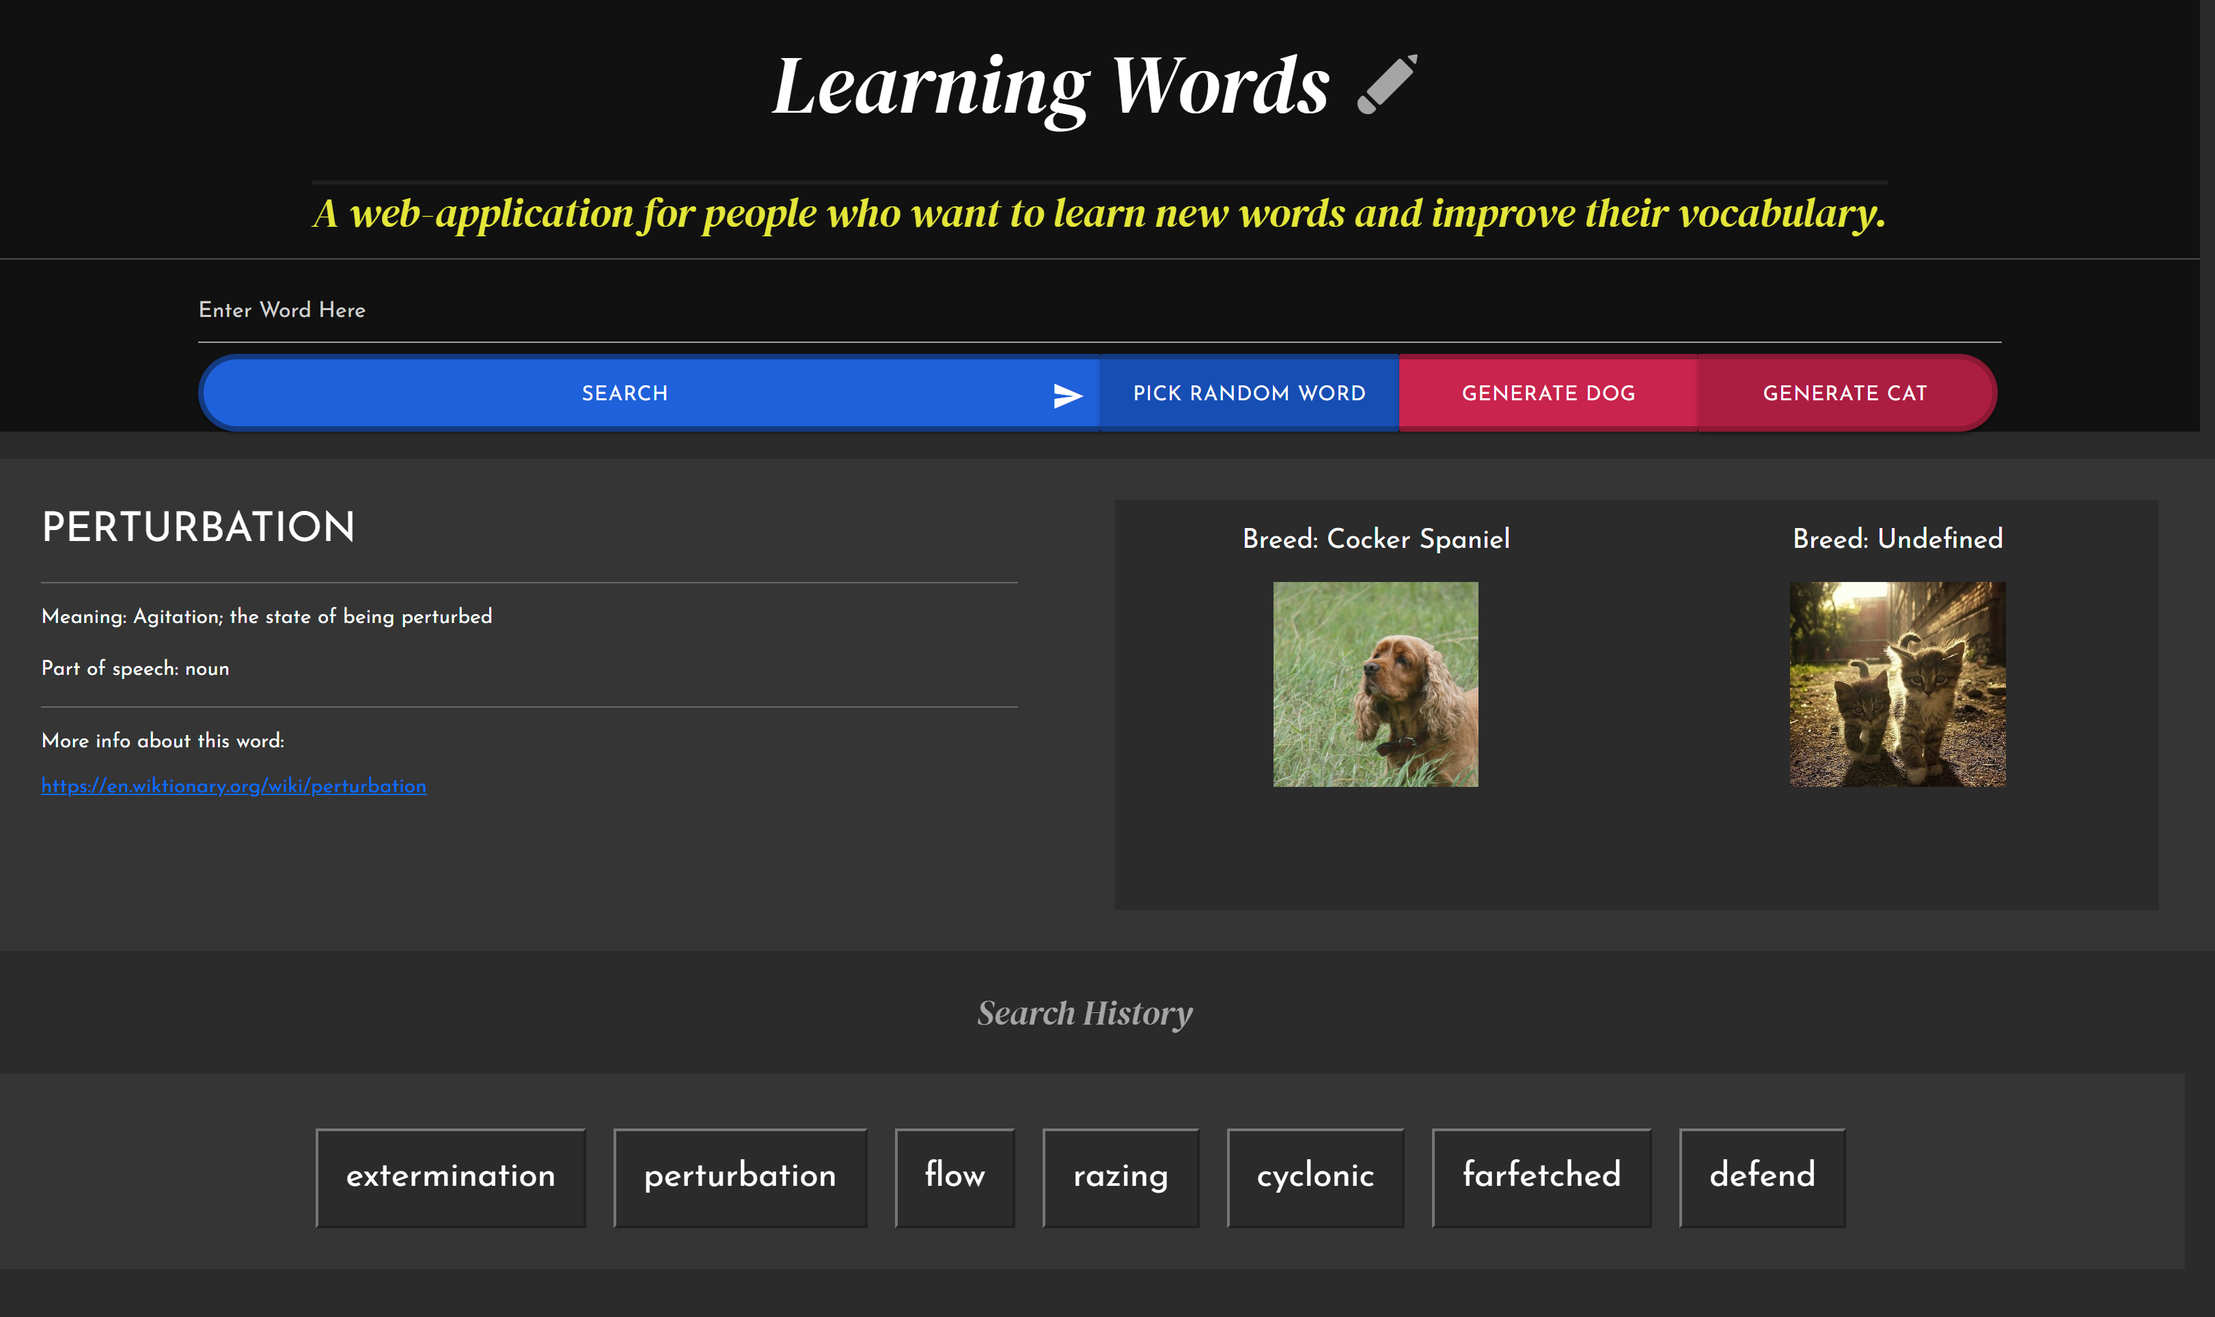
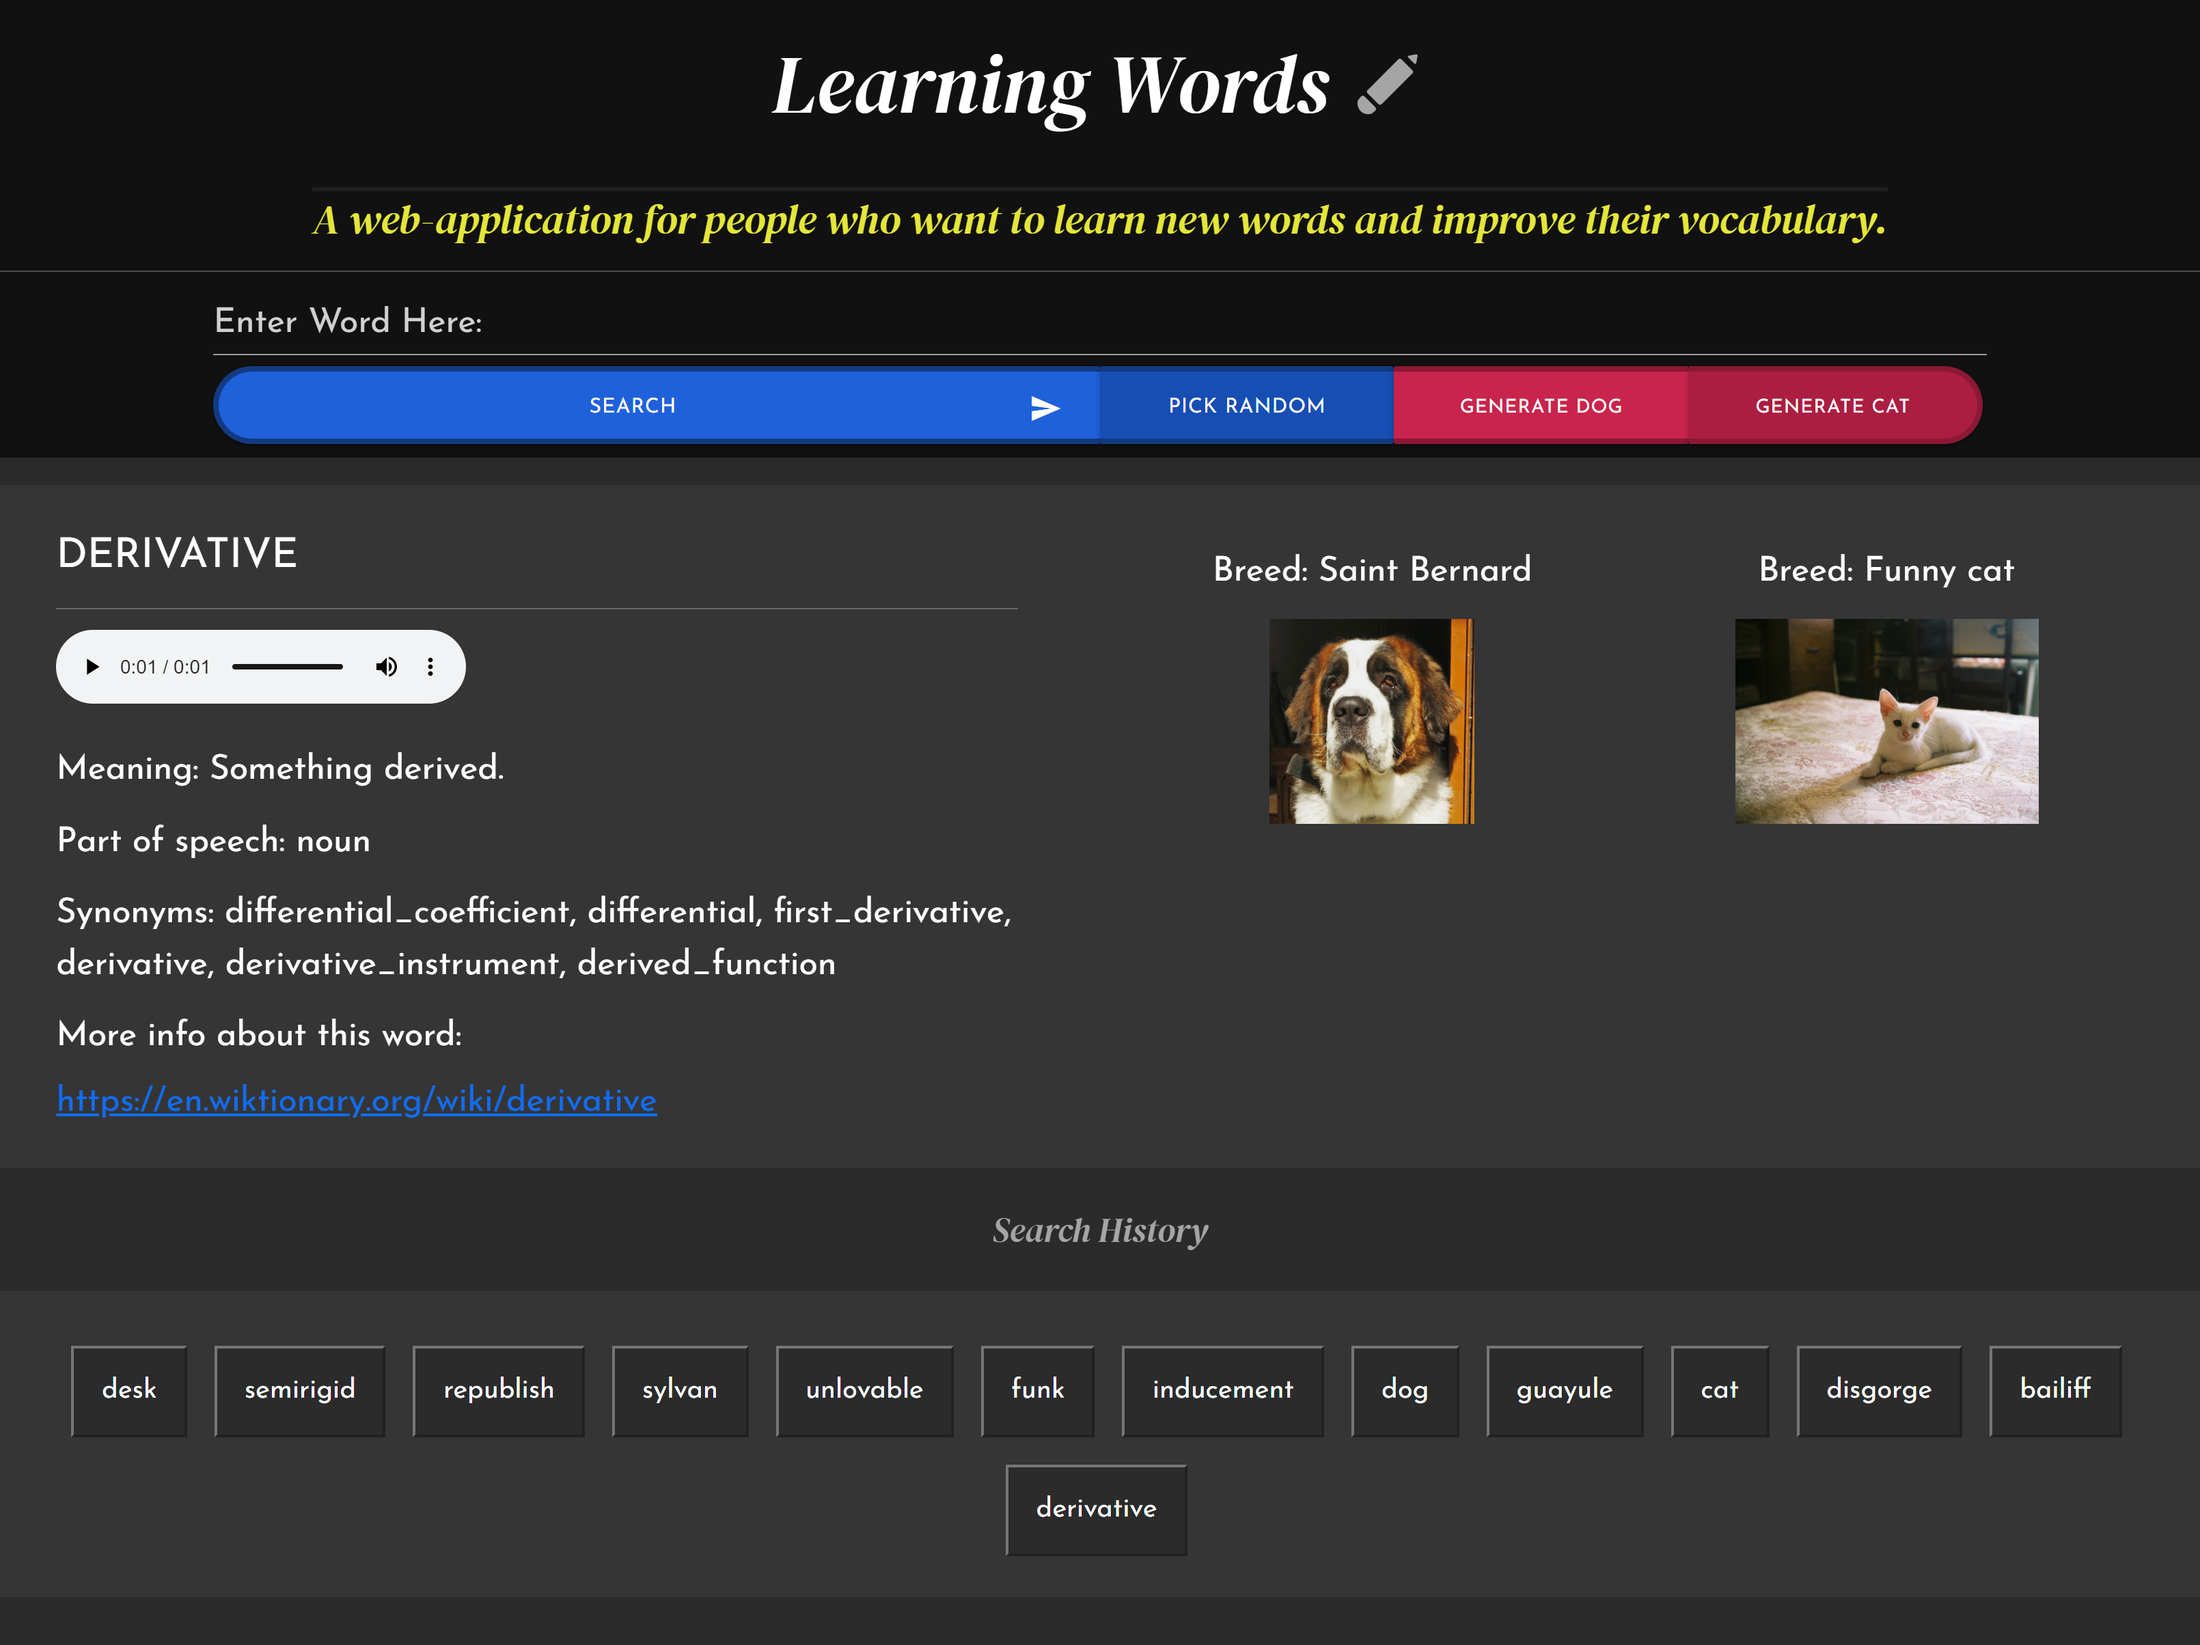
changed the image for the README.md to more-accurately portray our app

diff --git a/README.md b/README.md
@@ -5,9 +5,10 @@
 Learning Words is an interactive web application that lets the user search for words, and it returns some information about words, such as type (noun, verb, etc), definition, and synonyms. Once the user has searched for a word, they can generate random images of cats and dogs, along with the respective breed (if applicable). The search history is displayed at the bottom and allows users to go back to previously entered words at any time.
 
 ## Visuals
+
+![demo image](./assets/images/demo.png)
 You can see the app at the following URL:
-[https://zaingova.github.io/group-project-learning-words/]
-(https://zaingova.github.io/group-project-learning-words/)
+[https://zaingova.github.io/group-project-learning-words/](https://zaingova.github.io/group-project-learning-words/)
 
 ## Usage
 
